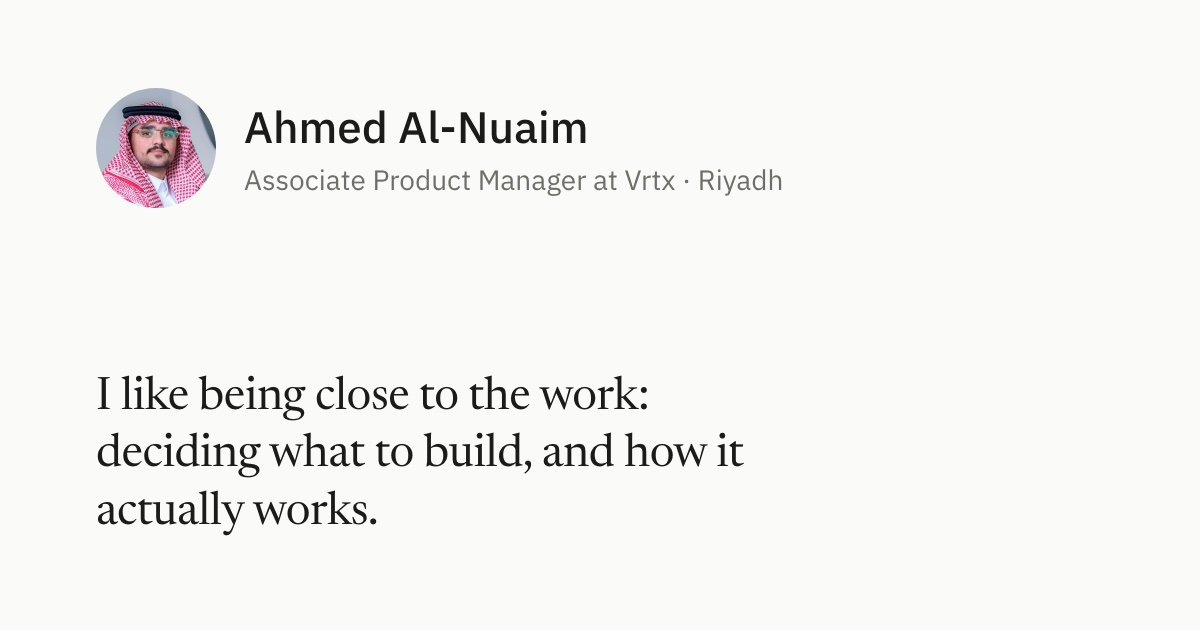
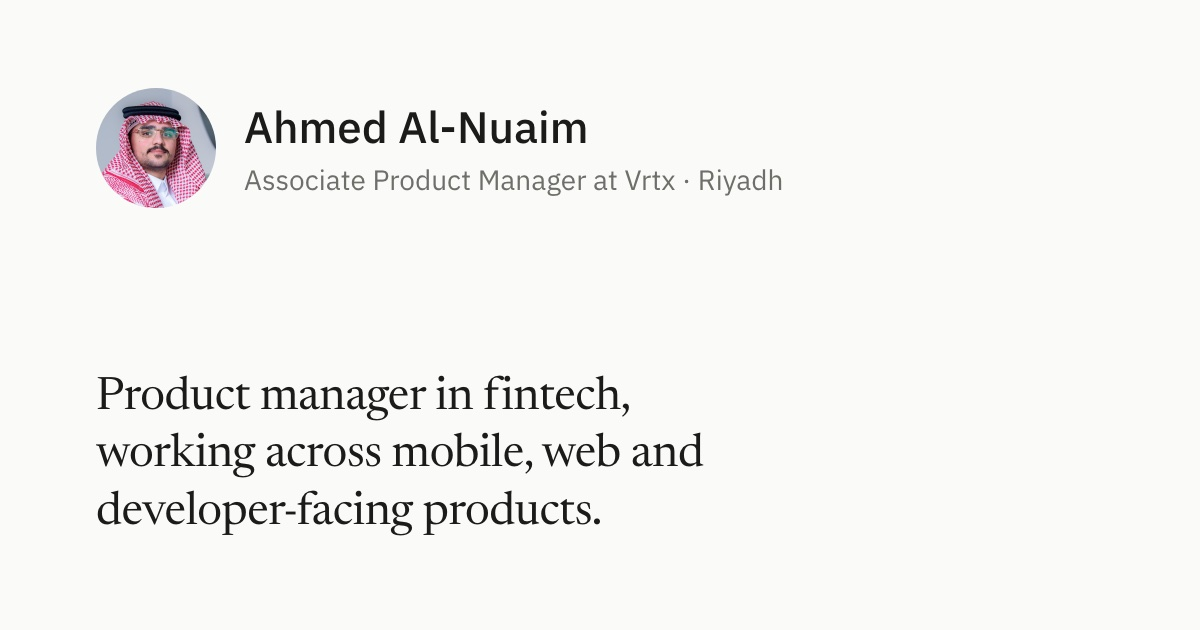
Intro from CV summary, add PSPO I, plain footer

Changed region(s): [[0.0617, 0.573, 0.6167, 0.8444]]

diff --git a/index.html b/index.html
@@ -225,8 +225,8 @@
   </header>
 
   <main id="main">
-    <p class="lede">I like being close to the work: deciding what to build, challenging ideas, and getting into how a product actually works.</p>
-    <p class="about">I work on payment products at Vrtx, a fintech in Riyadh. Before that I was in governance and operational technology at Aramco, and led student and developer communities. Outside work I build products of my own.</p>
+    <p class="lede">Product manager in fintech, working across mobile, web and developer-facing products.</p>
+    <p class="about">At Vrtx I define product requirements, prototype solutions and validate features before launch, with a focus on our mobile SDK and the developers who integrate it. Outside work I explore and build product ideas of my own, out of a long-standing interest in technology and innovation.</p>
 
     <nav aria-label="Sections">
       <ul class="jump">
@@ -332,6 +332,7 @@
         <div class="row">
           <span class="when">Product and Agile</span>
           <ul class="group">
+            <li><a href="https://www.scrum.org/certificates/1358658" target="_blank" rel="noopener noreferrer">Professional Scrum Product Owner I</a> <span class="at">Scrum.org, 2026</span></li>
             <li><a href="https://www.scrum.org/certificates/1340064" target="_blank" rel="noopener noreferrer">Professional Scrum Master I</a> <span class="at">Scrum.org, 2026</span></li>
             <li><a href="https://www.udacity.com/certificate/e/f3bc309a-5ca9-11f0-b9b8-eba3eb4fd760" target="_blank" rel="noopener noreferrer">Product Manager</a> <span class="at">Udacity, 2025</span></li>
             <li><a href="https://www.credly.com/badges/8092880a-9635-4cbc-8296-af916efd0123/linked_in_profile" target="_blank" rel="noopener noreferrer">Product Analytics Certified</a> <span class="at">Pendo, 2025</span></li>
@@ -373,7 +374,7 @@
           </ul>
         </div>
       </div>
-      <button class="toggle" type="button" aria-controls="creds" aria-expanded="false" data-more="Show all 23 certifications" data-less="Show fewer">Show all 23 certifications</button>
+      <button class="toggle" type="button" aria-controls="creds" aria-expanded="false" data-more="Show all 24 certifications" data-less="Show fewer">Show all 24 certifications</button>
     </section>
 
     <section id="skills" aria-labelledby="h-skills">
@@ -397,7 +398,7 @@
     </section>
   </main>
 
-  <footer>Ahmed Al-Nuaim, Riyadh. Updated <span id="updated">October 2026</span>.</footer>
+  <footer>© 2026 Ahmed Al-Nuaim</footer>
 </div>
 
 <nav class="bar" id="bar" aria-label="Quick contact">
@@ -437,13 +438,6 @@
       btn.textContent = open ? btn.dataset.less : btn.dataset.more;
     });
   });
-
-  // Footer date follows the last publish (GitHub Pages sends Last-Modified)
-  const modified = new Date(document.lastModified);
-  if (!isNaN(modified)) {
-    document.getElementById("updated").textContent =
-      modified.toLocaleDateString("en-GB", { month: "long", year: "numeric" });
-  }
 
   // Phone contact bar: shown once the header actions scroll away, hidden again at the Contact section
   const bar = document.getElementById("bar");
